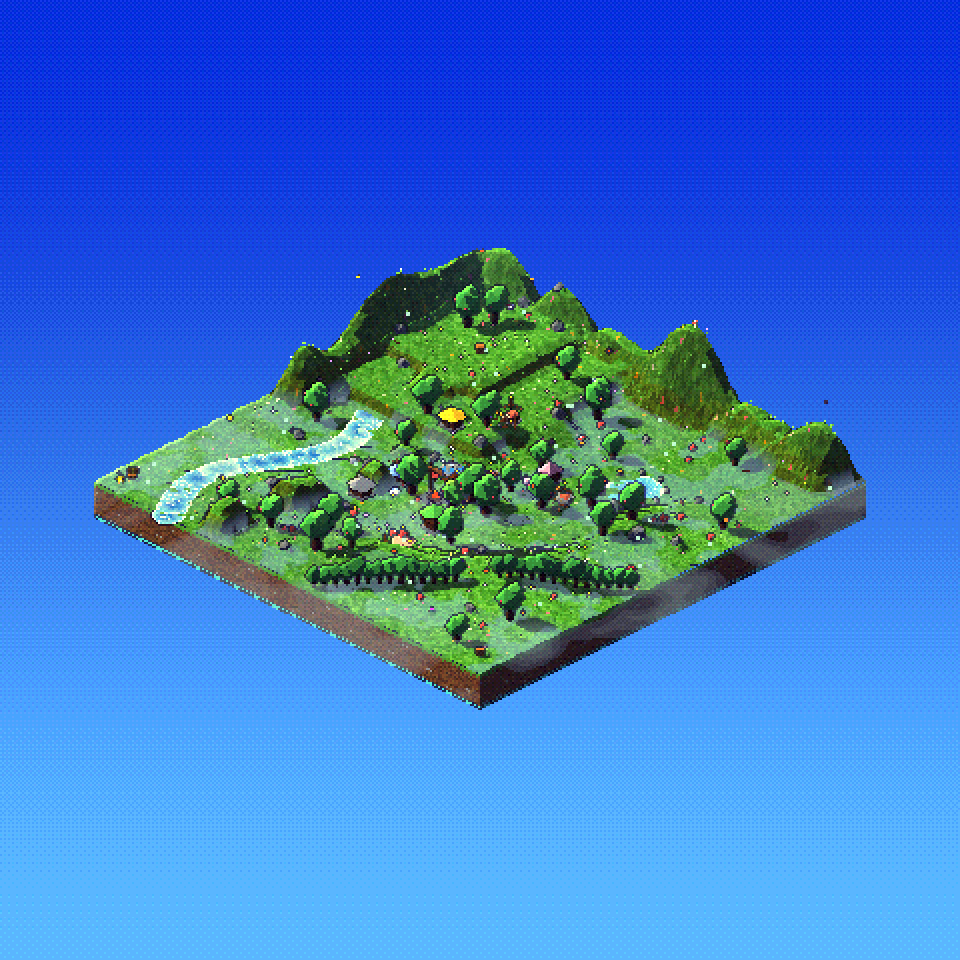
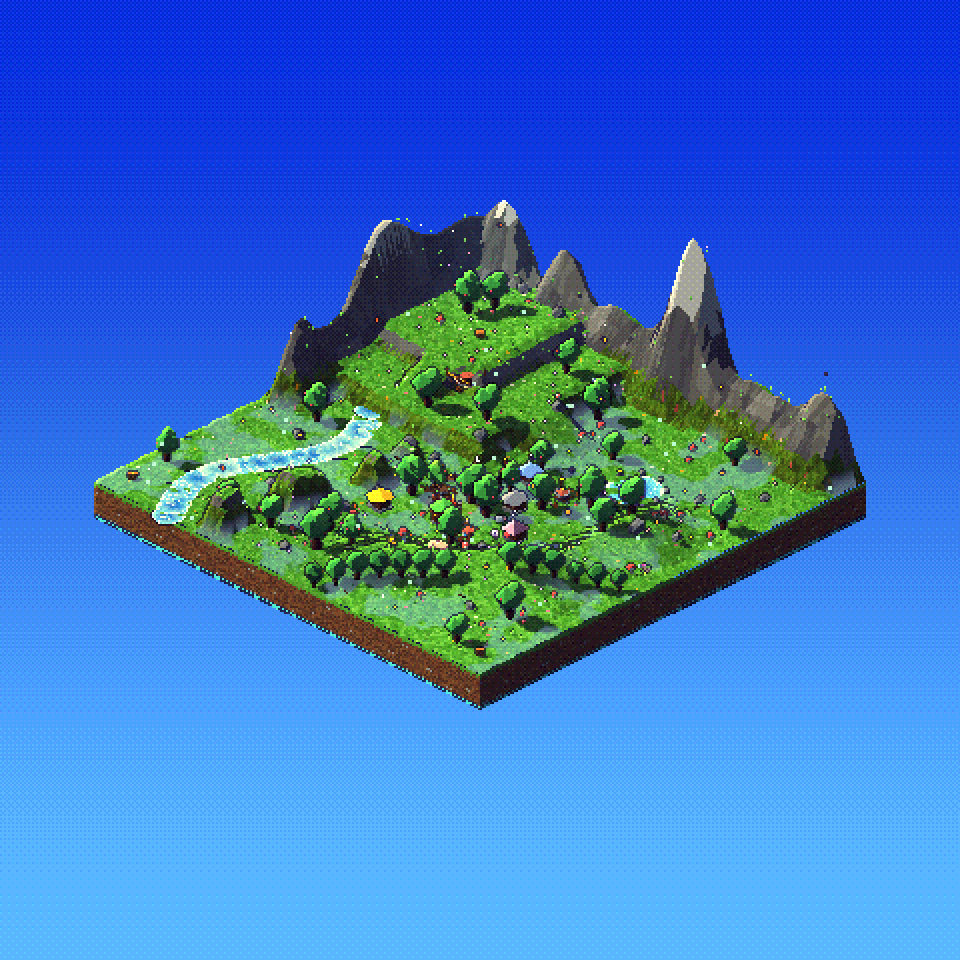
山を高く（いちばん高い所で 15 ほど）・高低差を大きく・岩はだと雪の材質
- 山なみの峰を 高く とがらせる（広い島ほど高い）
- 高台は 1 段 1.2 → 1.8、丘・岩の壁も高く（ふちは のぼれる なだらかさのまま）
- 地面を 3 つの材質に：草など / 岩はだ（山の上のほう・高い急な面）/ 雪（てっぺん）

Claude-Session: https://claude.ai/code/session_0123UptJxvfEXsQxns9cL3Y3

Changed region(s): [[0.0938, 0.1875, 0.9062, 0.7188], [0.4688, 0.7188, 0.5, 0.75]]

diff --git a/src/world/stages.ts b/src/world/stages.ts
@@ -68,7 +68,6 @@ function terrain(heightAt: (x: number, z: number) => number, map: THREE.Texture,
   // 起伏をなめらかに見せるため 1 マスを 2 分割（PS1 っぽさは頂点スナップで残る）
   const geo = new THREE.PlaneGeometry(SIZE, SIZE, SIZE * 2, SIZE * 2).rotateX(-Math.PI / 2)
   const pos = geo.attributes.position
-  const colors: number[] = []
   const a = new THREE.Color(tint[0])
   const b = new THREE.Color(tint[1])
   const r = rng(42)
@@ -87,15 +86,51 @@ function terrain(heightAt: (x: number, z: number) => number, map: THREE.Texture,
   // 地面のテクスチャ（草など）と かけ合わせるので、明るめの色にしておく
   const strata = [new THREE.Color('#e0b48a'), new THREE.Color('#f4d0a0'), new THREE.Color('#c8946a')]
   const rockC = [new THREE.Color('#d8d4cc'), new THREE.Color('#bfb8ae')]
+  const snowC = [new THREE.Color('#f4f8ff'), new THREE.Color('#dfe8f6')]
+  // 面を 3 組に分ける：0 = 地面のテクスチャ / 1 = 岩はだ（高い所の急な面・山の上のほう）/ 2 = 雪（山の てっぺん）
+  const fu = flat.attributes.uv
+  const buckets: { p: number[]; n: number[]; u: number[]; c: number[] }[] = [0, 1, 2].map(() => ({ p: [], n: [], u: [], c: [] }))
   for (let f = 0; f < fp.count; f += 3) {
     const ny = (fn.getY(f) + fn.getY(f + 1) + fn.getY(f + 2)) / 3
     const y = (fp.getY(f) + fp.getY(f + 1) + fp.getY(f + 2)) / 3
-    // 高い所の急な面は 岩はだ、低い所の急な面は 地層のしま
-    const c = ny < 0.72 ? (y > 2.6 ? rockC[Math.floor(y / 0.5) % 2] : strata[Math.floor(y / 0.32) % 3]) : a.clone().lerp(b, r())
-    for (let k = 0; k < 3; k++) colors.push(c.r, c.g, c.b)
+    let g = 0
+    let c: THREE.Color
+    if (y > 8.2 + r() * 1.2) {
+      // 山の てっぺん（高さ 8 より上）は 雪をかぶる
+      g = 2
+      c = snowC[ny > 0.6 ? 0 : 1]
+    } else if (y > 2.6 && (ny < 0.72 || y > 5.5 + r() * 1.5)) {
+      // 高い所の急な面と 山の上のほうは 岩はだ
+      g = 1
+      c = rockC[Math.floor(y / 0.5) % 2]
+    } else c = ny < 0.72 ? strata[Math.floor(y / 0.32) % 3] : a.clone().lerp(b, r())
+    const B = buckets[g]
+    for (let k = f; k < f + 3; k++) {
+      B.p.push(fp.getX(k), fp.getY(k), fp.getZ(k))
+      B.n.push(fn.getX(k), fn.getY(k), fn.getZ(k))
+      B.u.push(fu.getX(k), fu.getY(k))
+      B.c.push(c.r, c.g, c.b)
+    }
   }
-  flat.setAttribute('color', new THREE.Float32BufferAttribute(colors, 3))
-  const mesh = new THREE.Mesh(flat, psx(new THREE.MeshLambertMaterial({ map, vertexColors: true }), { ground: true, snow: snowy }))
+  const out = new THREE.BufferGeometry()
+  const cat = (key: 'p' | 'n' | 'u' | 'c') => buckets.flatMap((B) => B[key])
+  out.setAttribute('position', new THREE.Float32BufferAttribute(cat('p'), 3))
+  out.setAttribute('normal', new THREE.Float32BufferAttribute(cat('n'), 3))
+  out.setAttribute('uv', new THREE.Float32BufferAttribute(cat('u'), 2))
+  out.setAttribute('color', new THREE.Float32BufferAttribute(cat('c'), 3))
+  let start = 0
+  buckets.forEach((B, g) => {
+    const cnt = B.p.length / 3
+    if (cnt) out.addGroup(start, cnt, g)
+    start += cnt
+  })
+  flat.dispose()
+  const opt = { ground: true, snow: snowy }
+  const mesh = new THREE.Mesh(out, [
+    psx(new THREE.MeshLambertMaterial({ map, vertexColors: true }), opt),
+    psx(new THREE.MeshLambertMaterial({ map: Tex.rock(), vertexColors: true }), opt),
+    psx(new THREE.MeshLambertMaterial({ vertexColors: true }), opt),
+  ])
   return mesh
 }
 
@@ -303,20 +338,22 @@ function seedGrove(): Stage {
   const borderDrop = (x: number, z: number) => smooth(SIZE / 2, SIZE / 2 - 0.7 * k, Math.max(Math.abs(x), Math.abs(z)) * k)
   const mountains = (x: number, z: number) => {
     // x, z は元の 20 マスの位置
-    const north = smooth(B, B - 1.6, z)
-    const west = smooth(B, B - 1.6, x) * smooth(1.6, -0.4, z)
+    const north = smooth(B, B - 2.2, z)
+    const west = smooth(B, B - 2.2, x) * smooth(1.6, -0.4, z)
     const m = Math.max(north, west)
     if (m <= 0) return 0
     const ridge = Math.abs(Math.sin(x * 0.55 + 0.7) + 0.6 * Math.sin(x * 1.35 + z * 0.8) + 0.45 * Math.sin(z * 1.15 - 0.4))
-    return m * (2.4 + 2.4 * ridge) * borderDrop(x, z)
+    // 峰は 高く・とがらせる（いちばん高い所で 16 ほど）。広げた島ほど 高く
+    const peak = Math.pow(ridge / 2.05, 1.6)
+    return m * (4.5 + 10 * peak) * Math.sqrt(k) * 0.85 * borderDrop(x, z)
   }
   // 段々の高台：1 段目（x, z < -1.2・高さ 1.2・東の z -4.8〜-3.0 だけ坂）/ 2 段目（x, z < -3.8・高さ 2.4・南の x -5.9〜-4.6 だけ坂）
   const step = (out: number, soft: number) => smooth(soft, 0, out)
   const terraces = (x: number, z: number) => {
     const r1 = smooth(-5.4, -4.6, z) * smooth(-2.4, -3.2, z) * (x > -2.2 ? 1 : 0)
-    const t1 = 1.2 * step(Math.max(x + 1.2, z + 1.2), 0.75 + r1 * 2.0)
+    const t1 = 1.8 * step(Math.max(x + 1.2, z + 1.2), 1.0 + r1 * 2.2)
     const r2 = smooth(-6.5, -5.7, x) * smooth(-4.0, -4.8, x) * (z > -4.4 ? 1 : 0)
-    const t2 = 1.2 * step(Math.max(x + 3.8, z + 3.8), 0.75 + r2 * 2.0)
+    const t2 = 1.8 * step(Math.max(x + 3.8, z + 3.8), 1.0 + r2 * 2.2)
     return t1 + t2
   }
   // 岩の壁：くねりながら南へ。切り通しが 3 つ（z 1.6 / 4.2 / 7.4 のあたりは 通れる）
@@ -325,7 +362,7 @@ function seedGrove(): Stage {
     if (z < 0) return 0
     const cut = Math.min(Math.abs(z - 1.6), Math.abs(z - 4.2), Math.abs(z - 7.4))
     const gap = smooth(0.0, 0.5, cut - 0.6)
-    return 1.8 * smooth(0.8, 0.32, Math.abs(x - wallX(z))) * gap * smooth(0, 1.2, z) * borderDrop(x, z)
+    return 2.6 * smooth(0.8, 0.32, Math.abs(x - wallX(z))) * gap * smooth(0, 1.2, z) * borderDrop(x, z)
   }
   const riverXu = (z: number) => -6.4 + Math.sin(z * 0.6 + 0.5) * 1.0
   const riverX = (z: number) => riverXu(z / k) * k
@@ -337,7 +374,7 @@ function seedGrove(): Stage {
   const heightAt = (wx: number, wz: number) => {
     const x = wx / k
     const z = wz / k
-    let h = 0.25 + (Math.sin(x * 0.42) * Math.cos(z * 0.36) * 0.25 + mounds(x, z, [[5.6, 4.2, 2.6, 1.2], [2.2, 7.2, 2.2, 0.9], [7.2, -1.2, 2.0, 0.8]])) * edge(wx, wz)
+    let h = 0.25 + (Math.sin(x * 0.42) * Math.cos(z * 0.36) * 0.25 + mounds(x, z, [[5.6, 4.2, 2.6, 2.0], [2.2, 7.2, 2.2, 1.5], [7.2, -1.2, 2.0, 1.4]])) * edge(wx, wz)
     const ds = Math.hypot(wx - spring.x, wz - spring.z)
     h = THREE.MathUtils.lerp(0.24, h, smooth(spring.r, spring.r + 1.2, ds))
     // 村を建てる まんなかは 広く平らに

diff --git a/CLAUDE.md b/CLAUDE.md
@@ -69,7 +69,7 @@ Three.js + TypeScript + Vite + vite-plugin-pwa。机の上に浮かぶ 3D の本
 - **役割分担**：`Creature.role`（だいく / はたけがかり / みはり）を `assignRoles()` が 15 秒ごとに、性格 `bias` と村に足りない物（はたけ・みはりとう・おしろ）で決める。だいくは建築の確率が高く現場を優先、はたけがかりは `tend` 状態で畑の実りを早め、みはりは持ち場（みはりとう・おしろ）を見まわり 7 マス先の敵まで追う。頭の上に色つきの点
 - **じゅみょう（なかま）**：なかまと野生のおとなしい子は 1 匹ずつ `c.age` / `c.life`（`FRIEND_LIFE` = 25〜35 分のばらつき、セーブにも入る）。`updateAge()` が 1 秒ごとに数え、`retireFriend()` で しずかに ねむりにつく（`retired` = 光の粒になって消える。なかまは 6 割で同じ系統の たまごを のこす）。留守の早送り中は `noAging` で止める。情報ウィンドウに じゅみょうのバー。進化も 1 秒ごとに `gainXp(c, 0)` で見直す（たたかい中にたまった分）。必要経験値 `XP_NEED` = 25 / 70 / 135（ペットは寿命の 1 割・3 割・6 割ほどで 2・3・4 だんめ）
 - **あそびかた・カメラ**（2026-11-12 の方針：放置・眺める系が主役）：せってい の「あそびかた」= のんびり（既定）/ にぎやか（`pulsar-mode` → `World.calm`）。のんびりは敵軍の自動呼び出し・野生の敵の襲撃と家こわし・ペットからのけんか・みはりの追いかけを止める。おねがい・もくひょう・うんだめしは「あそび ▸」（`#play-btn`、body の `play-open`）にまとめる。見た目はジオラマだけ（PS1 風の仕上げ `makePostMaterial` は外した。昔の見た目は `archive/ps1-style` ブランチ）。ワープのグリッチ・フラッシュ・ひのこの熱ゆらぎは ジオラマの仕上げの uniform（`World.post` = `diorama.post`）。画面の中のカメラ：1 本指ドラッグ = `World.panBy`（ジオラマは `freeLook` を自由に動かし `follow` を切る）、`setFollow` / `setAuto`（おまかせ：`mark()` した できごとの場所へ 9〜14 秒ごとに ゆっくり移る。45 秒さわらないと自動）、`rotateView`（90°、`DioramaLook.setYaw`）。ボタンは `#pad` の `.cam-bar`（左下）、キー F / O / Q / E
-- **入り組んだ地形（計画 D）**：はじまりの森が見本。奥（北と西のふち）に のぼれない山なみ、北西に 2 段の高台（東の坂 → 南の坂の つづら折り）、西に くねる岩の壁（切り通し 1 つ）と その西の谷を蛇行する川（浅瀬 1 つ）、手前に なだらかな丘、南東に深い森の帯（小道）。まんなかは村のために広く平ら。森の地形は 20 マスの島を元に作り、`k = SIZE / 20` 倍に ひろげて置く（かいたくしても つりあう）。`freePos()` は急な坂（±0.6 マスで高さの差 0.45 より大）を えらばない（家・建物・置き物は平らな所に建つ）。ピンチで引ける量は 島の広さに合わせて大きく。木や岩は `placer(…, heightAt)` で急な坂に置かない。行き止まりに たからばこ 3 つ（`Stage.treasures`、`updateTreasures()`：なかまが 1.35 マス以内に来ると あく・コイン・35% で たまご・8 分で中身がもどる。ひまな子は `wantTreasure()` で見に行く。タップすると情報 + `sendToChest()` で近くの子が あけに行く）。歩くとき 行けない升目へは x / z だけ すべらせ、はまったら（`nav.trapped`）出す。道が無い目的地は すぐ あきらめる。足もとは まわり 0.22 の いちばん高い所（`footY`、めりこみ防止）。`terrain()` は面ごとの色（急な面は 低い所が地層のしま・高い所が岩はだ。テクスチャとかけ合わせるので明るめ）。モンスターの大きさは `CREATURE_SCALE`（0.7）
+- **入り組んだ地形（計画 D）**：はじまりの森が見本。奥（北と西のふち）に のぼれない山なみ、北西に 2 段の高台（東の坂 → 南の坂の つづら折り）、西に くねる岩の壁（切り通し 1 つ）と その西の谷を蛇行する川（浅瀬 1 つ）、手前に なだらかな丘、南東に深い森の帯（小道）。まんなかは村のために広く平ら。森の地形は 20 マスの島を元に作り、`k = SIZE / 20` 倍に ひろげて置く（かいたくしても つりあう）。`freePos()` は急な坂（±0.6 マスで高さの差 0.45 より大）を えらばない（家・建物・置き物は平らな所に建つ）。ピンチで引ける量は 島の広さに合わせて大きく。木や岩は `placer(…, heightAt)` で急な坂に置かない。行き止まりに たからばこ 3 つ（`Stage.treasures`、`updateTreasures()`：なかまが 1.35 マス以内に来ると あく・コイン・35% で たまご・8 分で中身がもどる。ひまな子は `wantTreasure()` で見に行く。タップすると情報 + `sendToChest()` で近くの子が あけに行く）。歩くとき 行けない升目へは x / z だけ すべらせ、はまったら（`nav.trapped`）出す。道が無い目的地は すぐ あきらめる。足もとは まわり 0.22 の いちばん高い所（`footY`、めりこみ防止）。`terrain()` は面ごとの色と材質（3 組：地面のテクスチャ / 岩はだ = 高さ 2.6 より上の急な面と 5.5〜より上 / 雪 = 8 より上。低い急な面は地層のしま）。山なみは いちばん高い所で 15 ほど（`sqrt(k)` で 広い島ほど高い）、高台は 1 段 1.8。モンスターの大きさは `CREATURE_SCALE`（0.7）
 - **はじめの敵**：ステージの敵は `farPos()`（ペットから 8 マス以上・島のはし）に置き、たおした敵の再出現も 7 マス以上はなす。新しいゲーム・ステージに入って `PEACE_TIME`（90 秒）は敵がおそわない（`peaceT`）。1 だんめ・こどもは 1.8 マス以内に来た時だけねらわれる。ペットから けんかを しかけるのは 2 だんめから
 - **世代交代**：ペットの `stats.petAge`（あそんだ秒）が `LIFESPAN`（40 分）に達すると `retirePet()` → おはか（`memorial`）→ `rebirth()` で同じ系統の赤ちゃんとして生まれ変わる（育ちの傾向は 3 割引きつぎ、代をかさねるほど強く、25% で突然変異）。`stats.gen` / `lineage` を保存。テストは `world.ageUp(分)`
 - **かいたく**：箱庭の広さは `LAND_SIZES = [40, 48, 56]`（2026-11 に 20/26/32 → 32/40/48 → 40/48/56 と広げた）（`stages.ts` の `setLandSize()`）。ショップの「かいたく ①②」で `expandLand()`（ステージを作り直し、家・建物・置き物・たまごは残す）。小物の数は `dens()` で面積に比例。広さは全ステージ共通で `land` を保存
